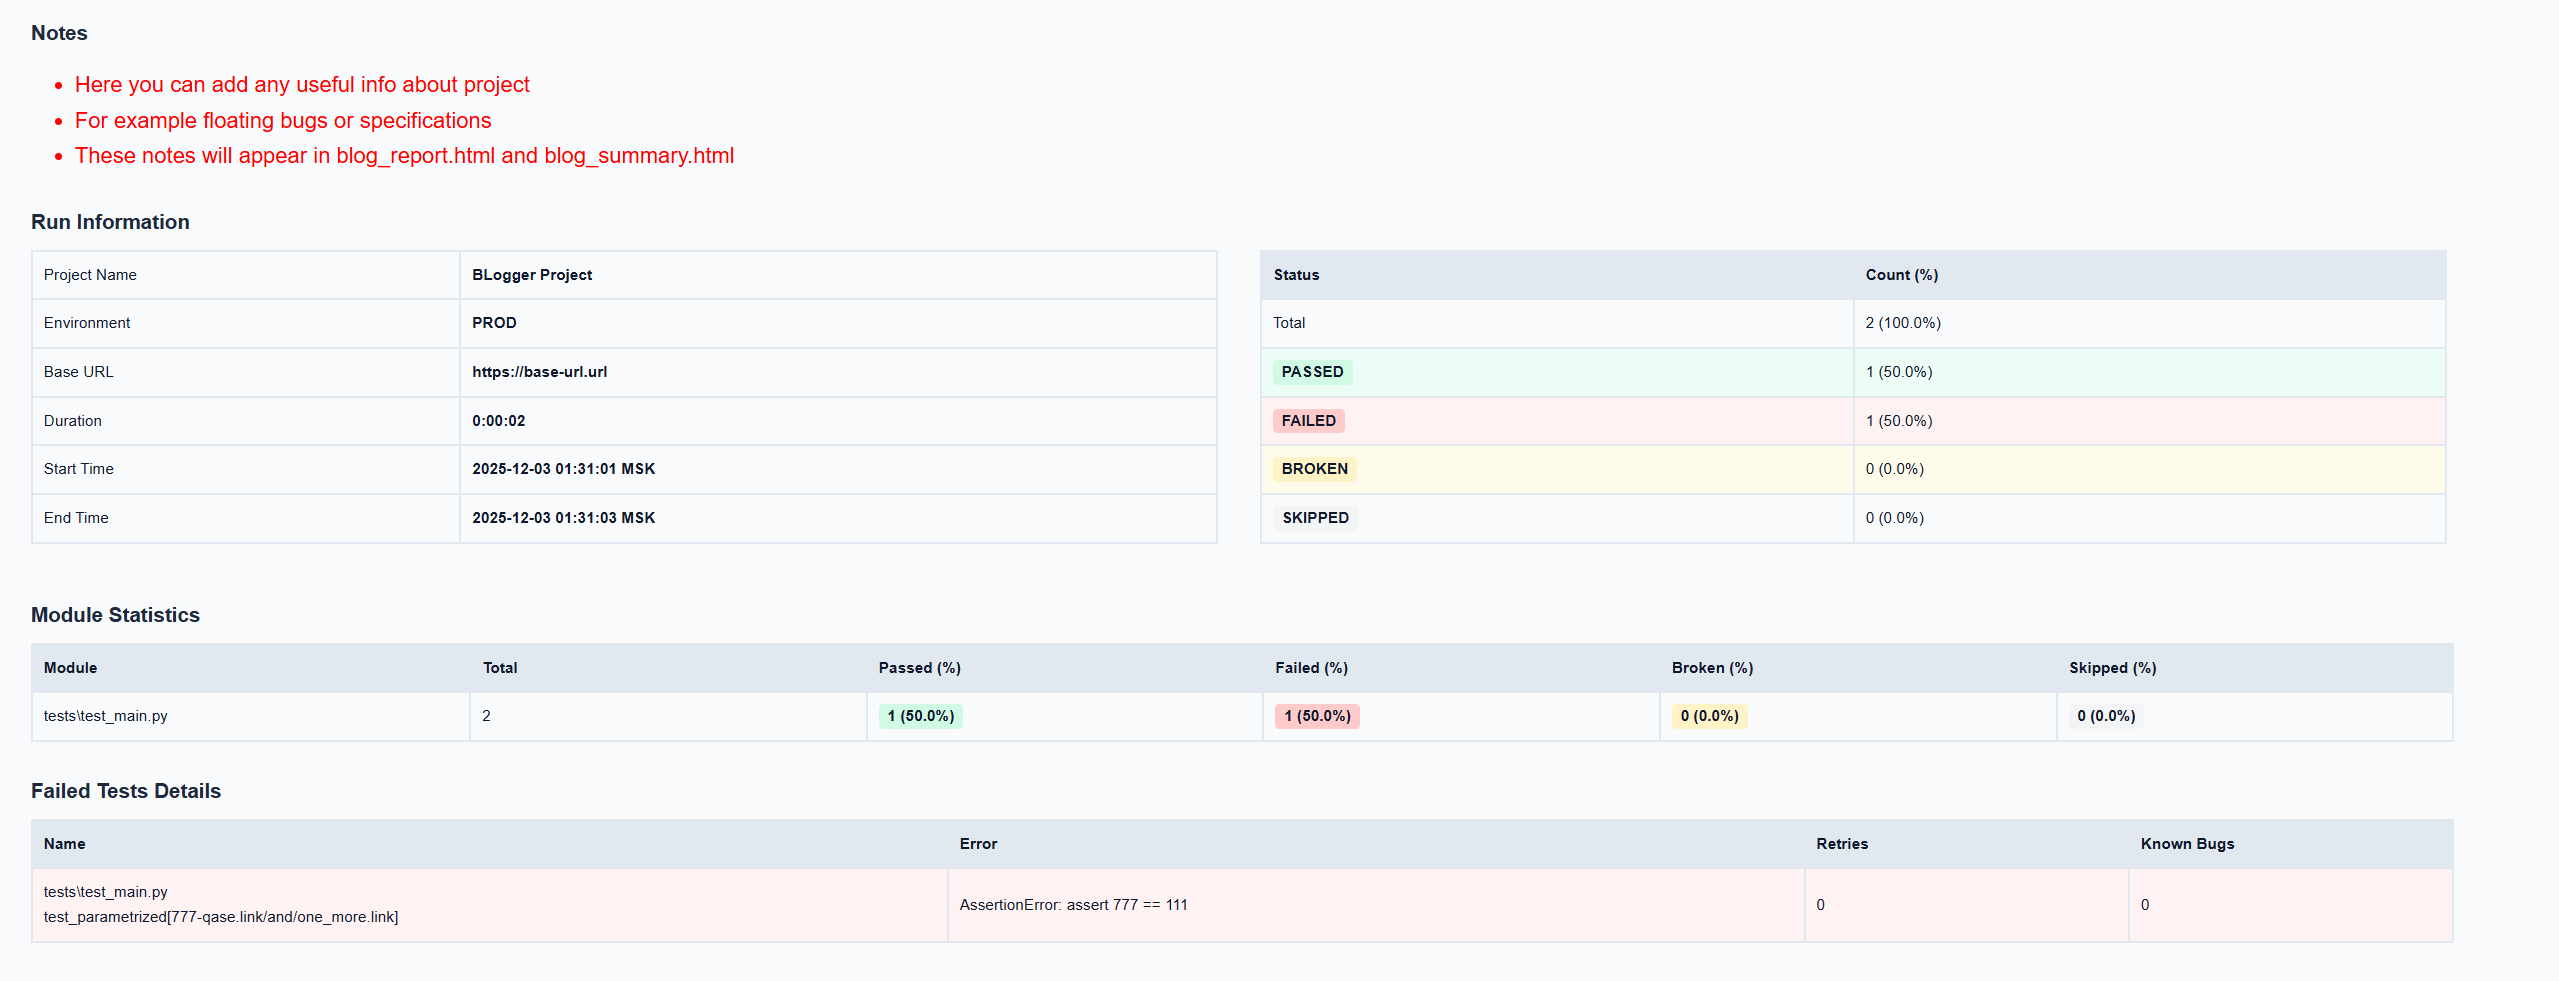
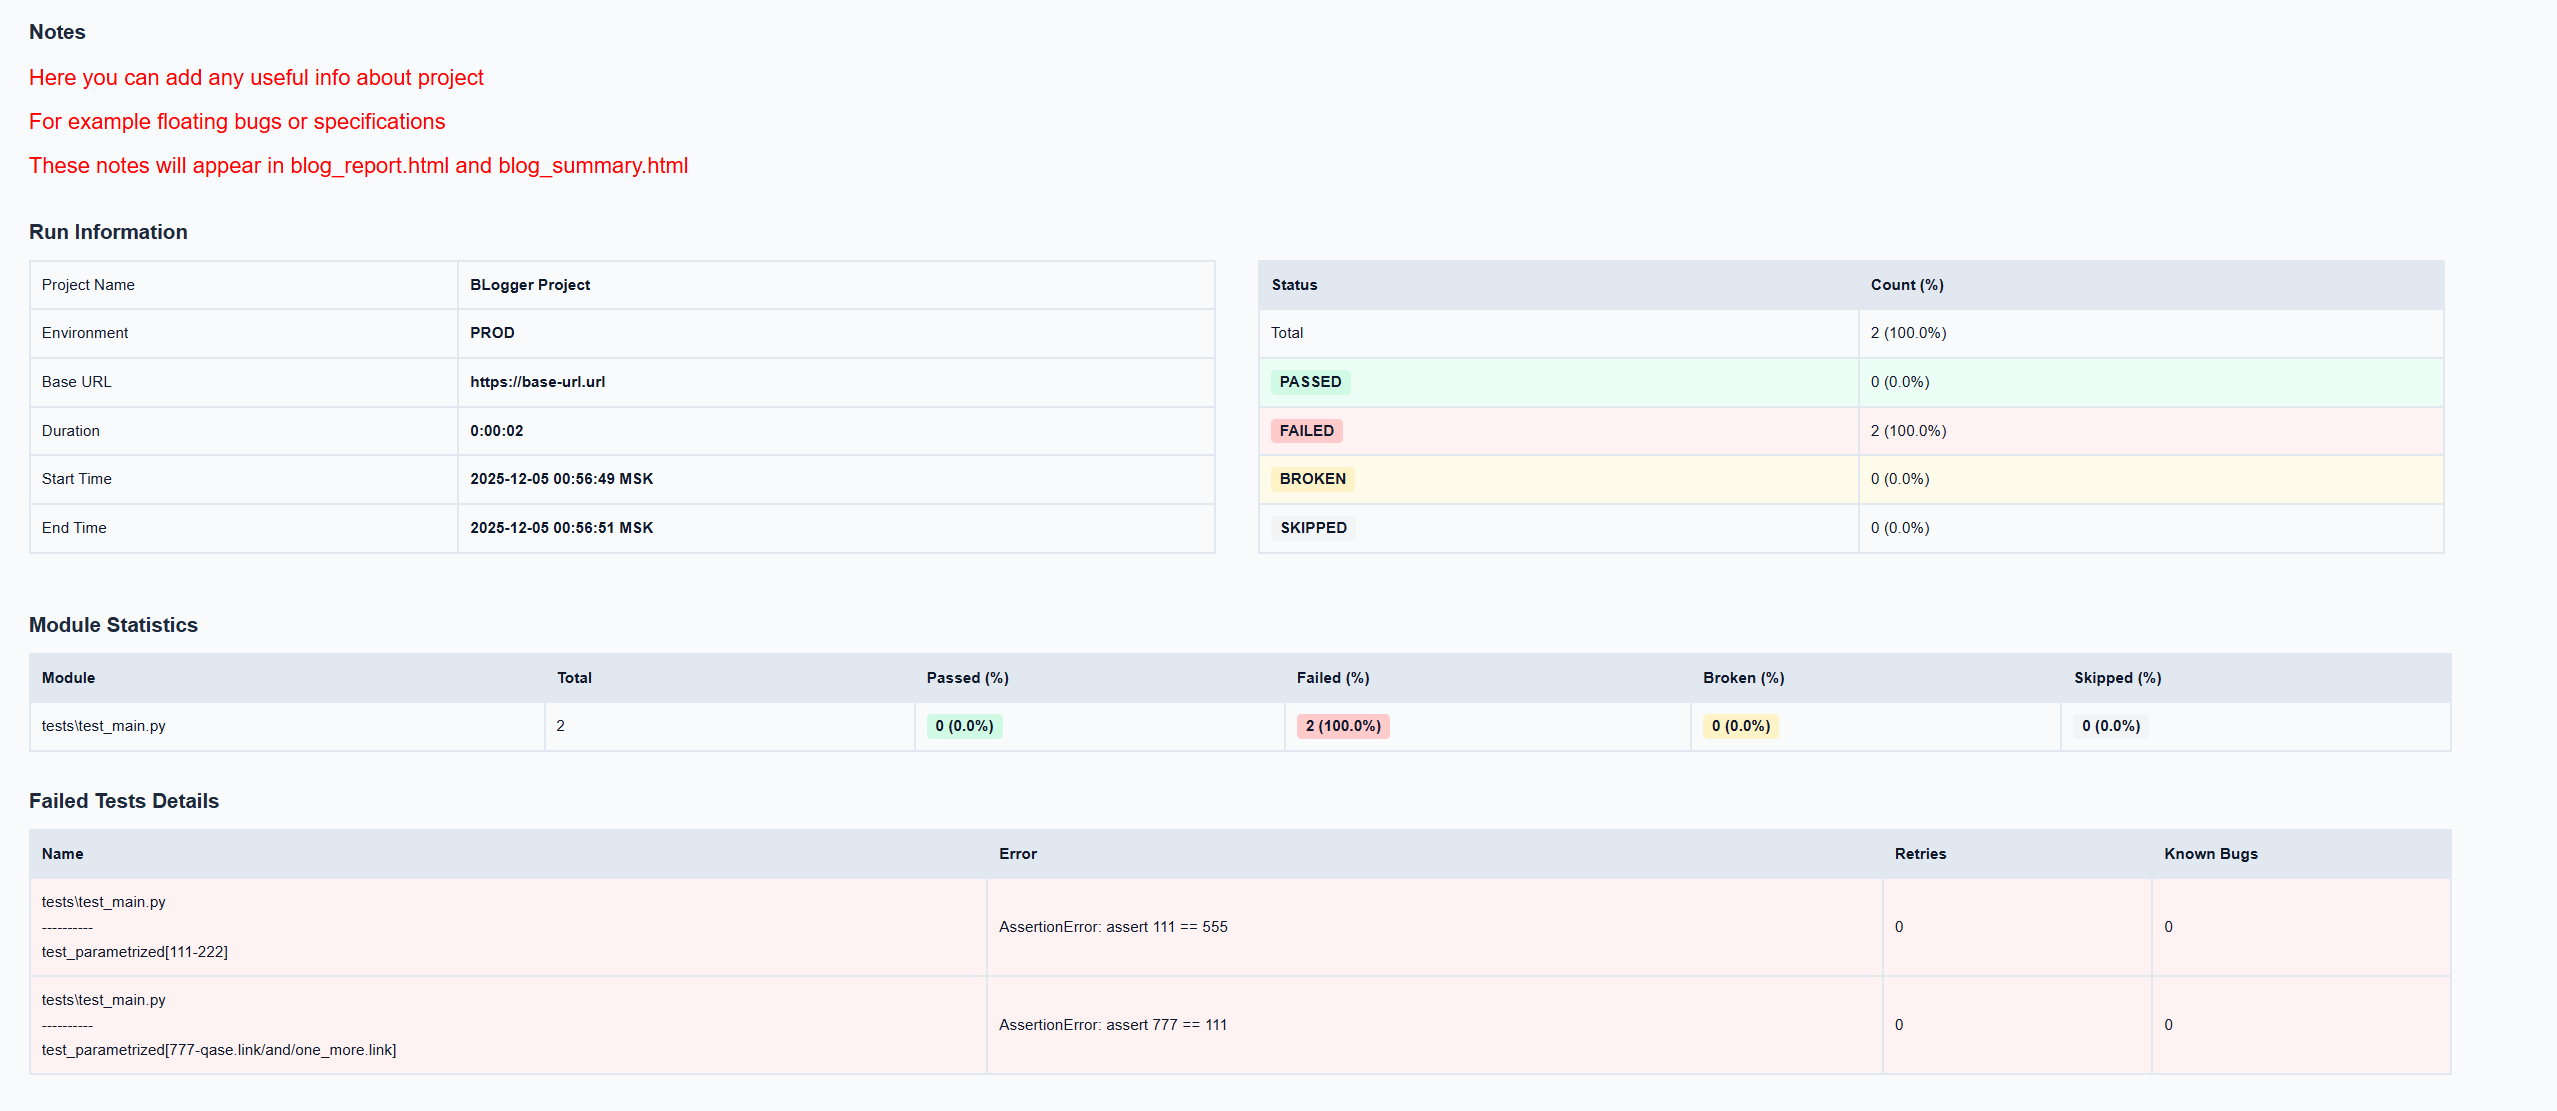
v1.2.1 (v2) notes fix

diff --git a/b_logger/templates/summary_template.html b/b_logger/templates/summary_template.html
@@ -8,33 +8,37 @@
 
     <style>
         body {
-          font-family: Arial, sans-serif;
-          color: #0F172A;
-          line-height: 1.6;
-          background-color: #F8FAFC;
-          padding: 20px;
+            font-family: Arial, sans-serif;
+            color: #0F172A;
+            line-height: 1.6;
+            background-color: #F8FAFC;
+            padding: 20px;
+        }
+
+        .note {
+            margin-bottom: 0.5rem;
         }
 
         table {
-          width: 97%;
-          border-collapse: collapse;
-          margin-bottom: 20px;
-          font-size: 14px;
+            width: 97%;
+            border-collapse: collapse;
+            margin-bottom: 20px;
+            font-size: 14px;
         }
 
         th, td {
-          border: 2px solid #E2E8F0;
-          padding: 10px;
-          text-align: left;
-          overflow-wrap: break-word;
-          word-wrap: break-word;
-          word-break: break-word;
+            border: 2px solid #E2E8F0;
+            padding: 10px;
+            text-align: left;
+            overflow-wrap: break-word;
+            word-wrap: break-word;
+            word-break: break-word;
         }
 
         th {
-          background-color: #E2E8F0;
-          font-weight: bold;
-          min-width: 75px;
+            background-color: #E2E8F0;
+            font-weight: bold;
+            min-width: 75px;
         }
 
         td.name-td {

diff --git a/b_logger/templates/summary_macros.html b/b_logger/templates/summary_macros.html
@@ -3,11 +3,9 @@
 {% set notes = report.notes.notes or [] %}
 {% set style = report.notes.style or {} %}
 <h3>Notes</h3>
-  <ul>
   {% for note in notes %}
-    <li style="{% for k, v in style.items() %}{{ k | e }}: {{ v | e }}; {% endfor %}">{{ note | escape }}</li>
+    <div class="note" style="{% for k, v in style.items() %}{{ k | e }}: {{ v | e }}; {% endfor %}">{{ note | escape }}</div>
   {% endfor %}
-  </ul>
 {% endif %}
 {% endmacro %}
 
